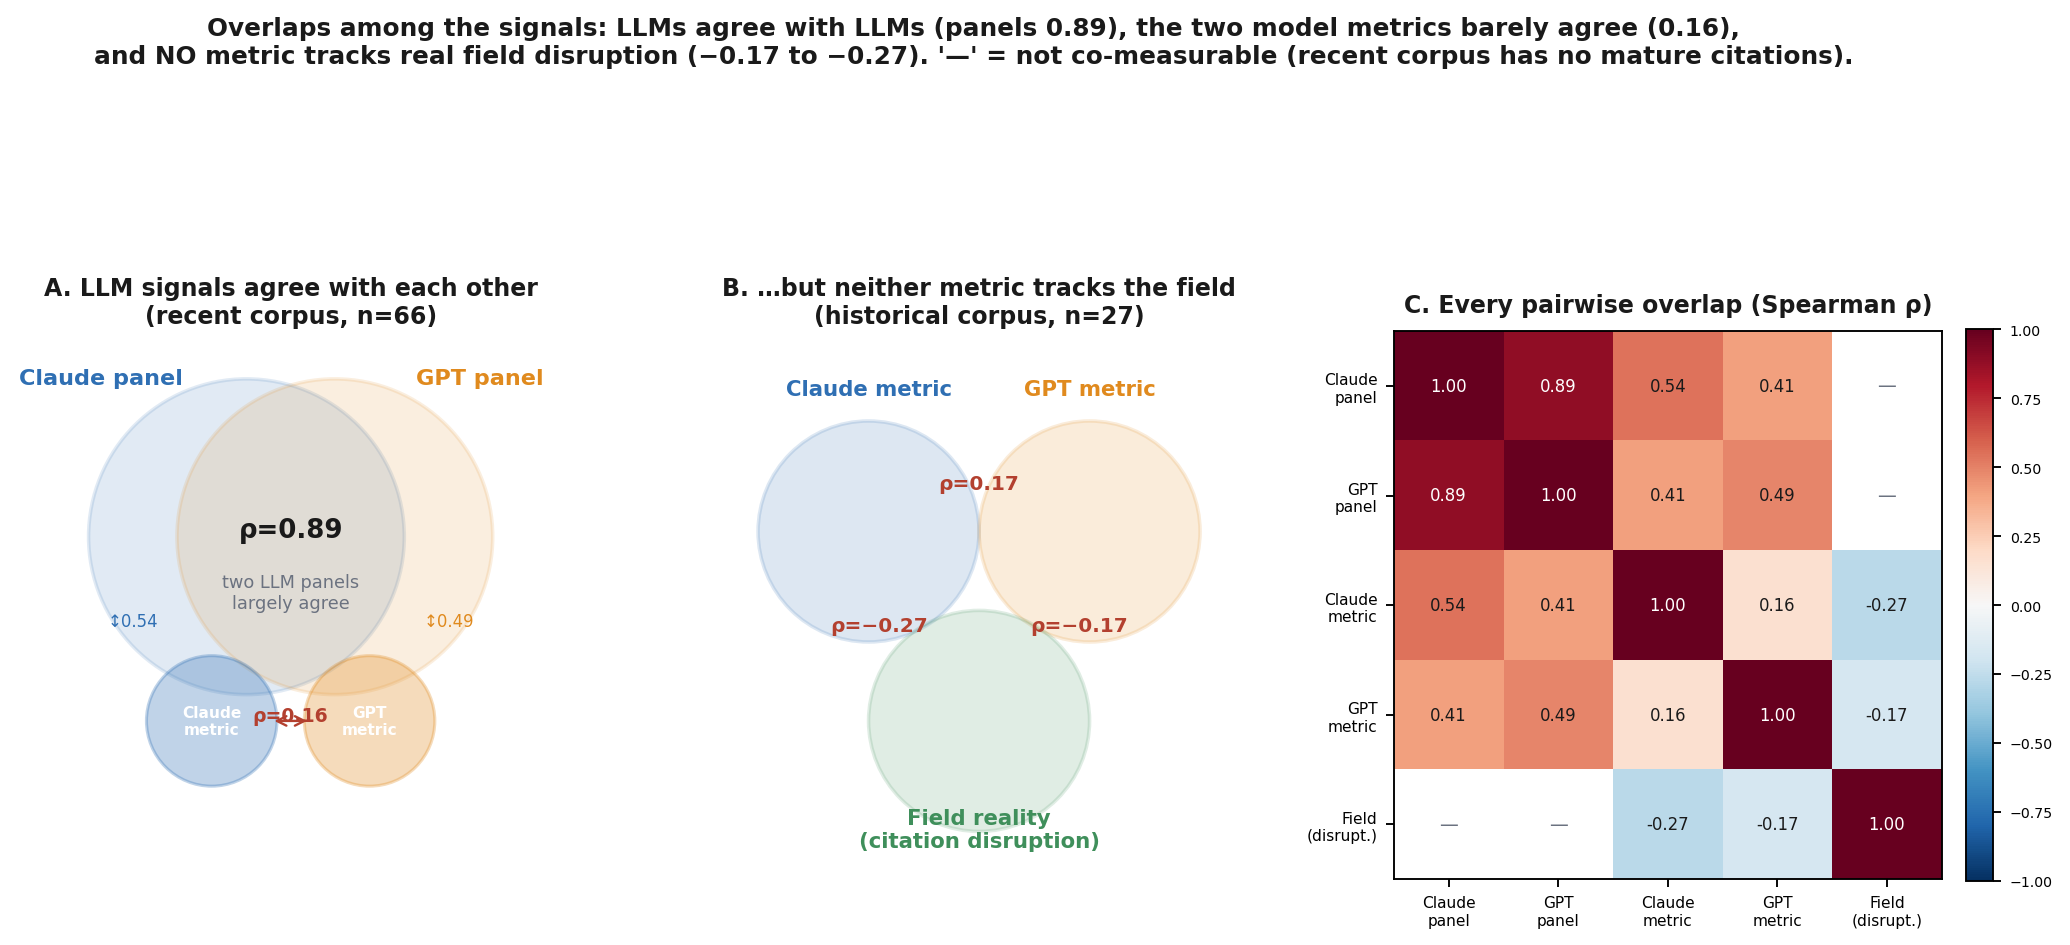
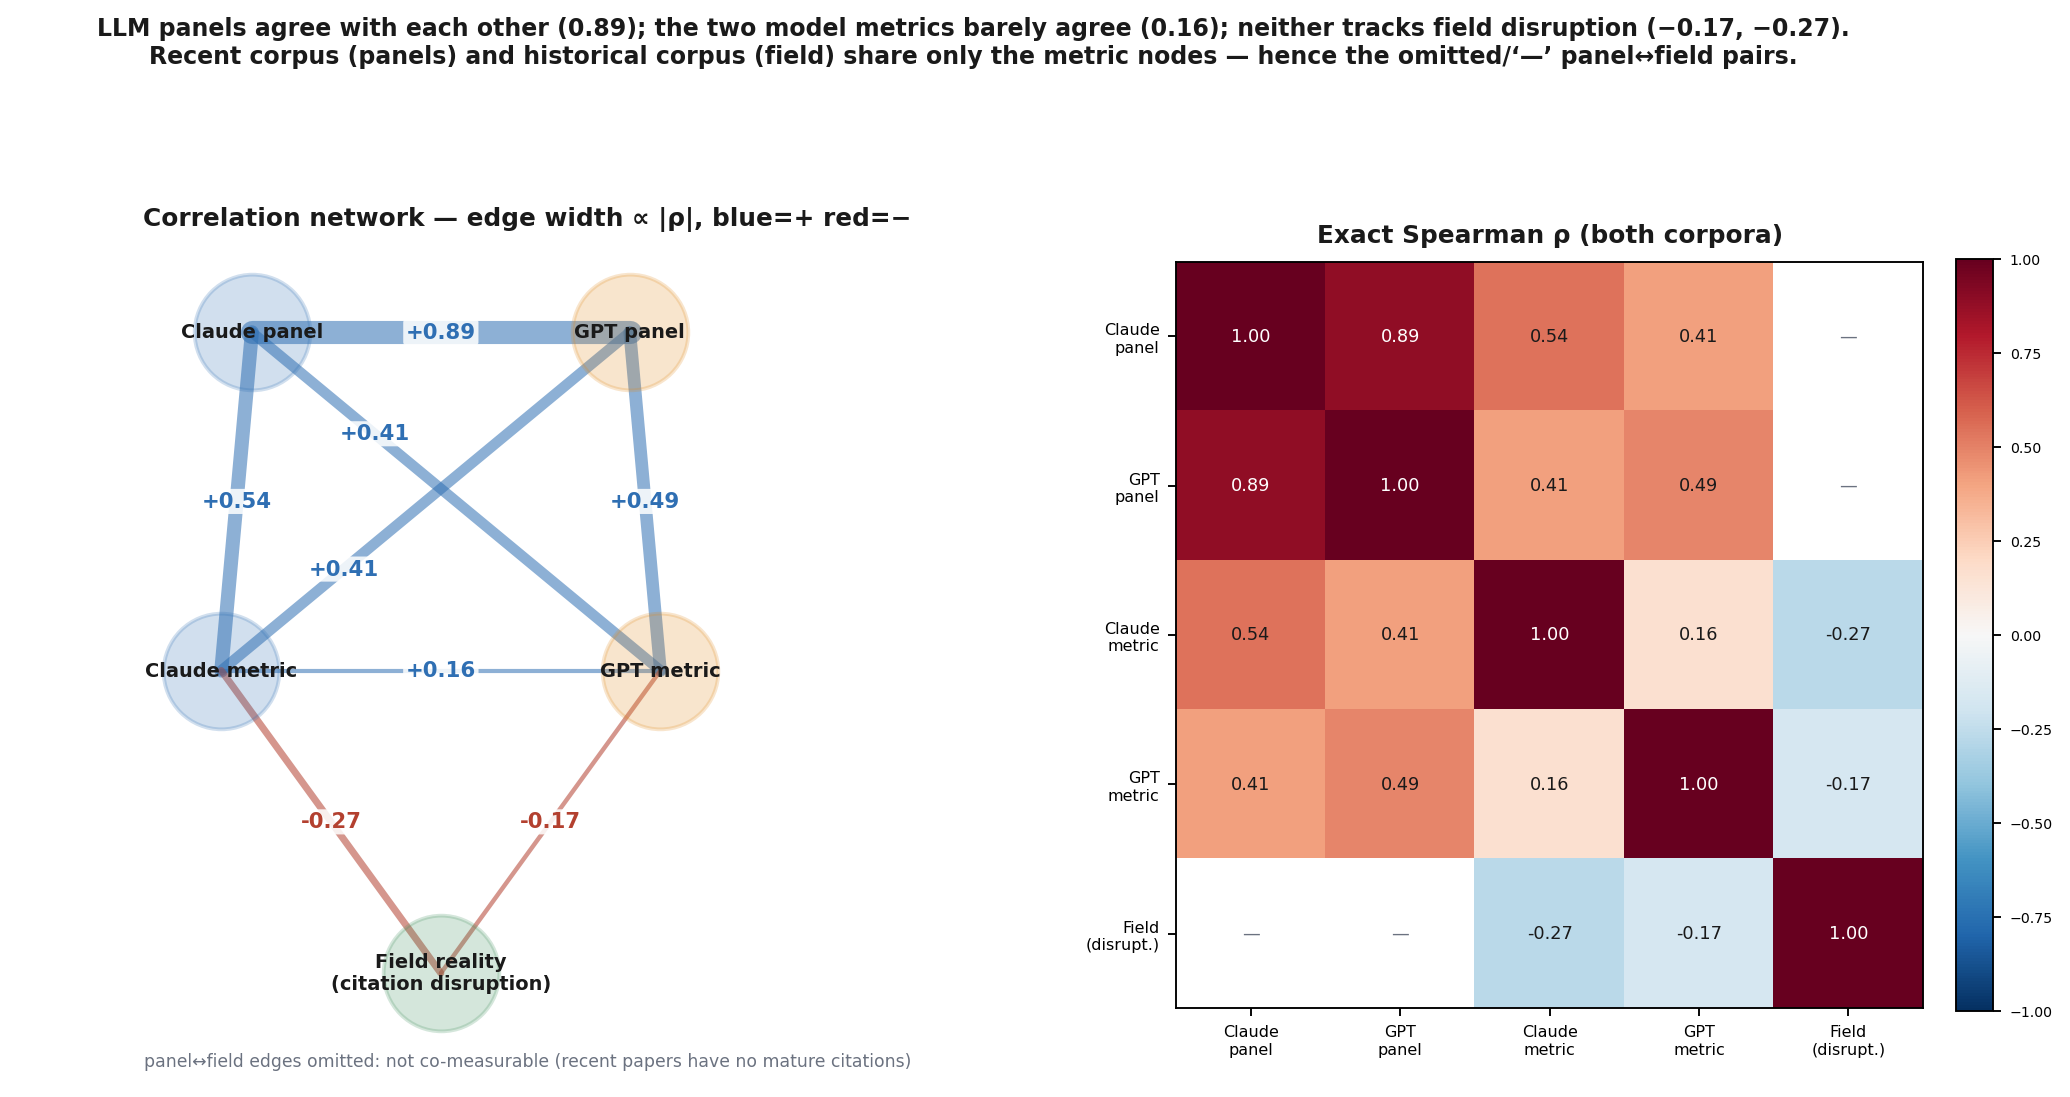
Historical paper: fix overlap figure — faithful correlation network (edge width ∝ |ρ|) + exact matrix
Replaces the hand-drawn Venn (which rendered equal correlations, e.g. metric-metric 0.16/0.17,
with inconsistent visual overlap) with a correlation network where edge width is strictly
proportional to |ρ|, so equal correlations look equal. Caption clarifies the two-corpus design:
LLM panels (recent corpus, no mature citations) and field disruption (historical corpus) are
never cross-substituted — panel↔field is not co-measurable, hence the '—' cells.

diff --git a/research/metrics/v6-historical/make_overlap_fig.py b/research/metrics/v6-historical/make_overlap_fig.py
@@ -1,68 +1,62 @@
 #!/usr/bin/env python3
+"""Faithful overlap figure: a correlation NETWORK (edge width strictly ∝ |ρ|, colour = sign)
++ the exact Spearman matrix. No hand-drawn Venn geometry — equal ρ now looks equal."""
 import numpy as np, matplotlib
 matplotlib.use("Agg"); import matplotlib.pyplot as plt
-from matplotlib.patches import Circle
-BLUE="#2f6fb3";ORANGE="#e08a1e";GREEN="#3f8f5b";RED="#b3402f";INK="#1a1a1a";MUT="#6b7280"
-fig=plt.figure(figsize=(15,6.6));fig.patch.set_facecolor("white")
-gs=fig.add_gridspec(1,3,width_ratios=[1.05,1.05,1.15],wspace=0.25)
+BLUE="#2f6fb3";ORANGE="#e08a1e";GREEN="#3f8f5b";POS="#2f6fb3";NEG="#b3402f";INK="#1a1a1a";MUT="#6b7280"
+fig=plt.figure(figsize=(15,6.8));fig.patch.set_facecolor("white")
+gs=fig.add_gridspec(1,2,width_ratios=[1.25,1],wspace=0.15)
 
-# ---------- Panel A: LLM judgement agrees with itself (recent corpus) ----------
-ax=fig.add_subplot(gs[0,0]);ax.set_xlim(-2.6,2.6);ax.set_ylim(-2.5,2.6);ax.axis("off");ax.set_aspect("equal")
-# panels: big overlap 0.89
-ax.add_patch(Circle((-0.42,0.7),1.5,facecolor=BLUE,alpha=0.14,edgecolor=BLUE,lw=1.5))
-ax.add_patch(Circle(( 0.42,0.7),1.5,facecolor=ORANGE,alpha=0.14,edgecolor=ORANGE,lw=1.5))
-ax.text(-1.8,2.15,"Claude panel",color=BLUE,fontsize=9.5,weight="bold",ha="center")
-ax.text( 1.8,2.15,"GPT panel",color=ORANGE,fontsize=9.5,weight="bold",ha="center")
-ax.text(0,0.7,"ρ=0.89",color=INK,fontsize=11,weight="bold",ha="center")
-ax.text(0,0.35,"two LLM panels\nlargely agree",color=MUT,fontsize=7.5,ha="center",va="top")
-# metric circles smaller, overlapping panels ~0.5 but each other ~0.16
-ax.add_patch(Circle((-0.75,-1.05),0.62,facecolor=BLUE,alpha=0.30,edgecolor=BLUE,lw=1.3))
-ax.add_patch(Circle(( 0.75,-1.05),0.62,facecolor=ORANGE,alpha=0.30,edgecolor=ORANGE,lw=1.3))
-ax.text(-0.75,-1.05,"Claude\nmetric",color="white",fontsize=6.5,weight="bold",ha="center",va="center")
-ax.text( 0.75,-1.05,"GPT\nmetric",color="white",fontsize=6.5,weight="bold",ha="center",va="center")
-ax.annotate("ρ=0.16",xy=(0,-1.05),fontsize=8,color=RED,ha="center",weight="bold")
-ax.annotate("",xy=(-0.2,-1.05),xytext=(0.2,-1.05),arrowprops=dict(arrowstyle="<->",color=RED,lw=1))
-ax.text(-1.5,-0.15,"↕0.54",color=BLUE,fontsize=7,ha="center")
-ax.text( 1.5,-0.15,"↕0.49",color=ORANGE,fontsize=7,ha="center")
-ax.set_title("A. LLM signals agree with each other\n(recent corpus, n=66)",fontsize=10,color=INK,weight="bold")
+# ---- correlation network ----
+ax=fig.add_subplot(gs[0,0]);ax.set_xlim(0,10);ax.set_ylim(0,10);ax.axis("off")
+nodes={
+ "Claude panel":(2.3,8.4,BLUE),
+ "GPT panel":(6.0,8.4,ORANGE),
+ "Claude metric":(2.0,4.6,BLUE),
+ "GPT metric":(6.3,4.6,ORANGE),
+ "Field reality\n(citation disruption)":(4.15,1.2,GREEN),
+}
+edges=[  # (a,b,rho,label_t)
+ ("Claude panel","GPT panel",0.89,0.5),
+ ("Claude panel","Claude metric",0.54,0.5),
+ ("GPT panel","GPT metric",0.49,0.5),
+ ("Claude panel","GPT metric",0.41,0.30),
+ ("GPT panel","Claude metric",0.41,0.70),
+ ("Claude metric","GPT metric",0.16,0.5),
+ ("Claude metric","Field reality\n(citation disruption)",-0.27,0.5),
+ ("GPT metric","Field reality\n(citation disruption)",-0.17,0.5),
+]
+def mid(a,b,t=0.5): return (nodes[a][0]+(nodes[b][0]-nodes[a][0])*t, nodes[a][1]+(nodes[b][1]-nodes[a][1])*t)
+for a,b,r,lt in edges:
+    x1,y1,_=nodes[a]; x2,y2,_=nodes[b]
+    col=POS if r>=0 else NEG
+    ax.plot([x1,x2],[y1,y2],color=col,lw=max(0.6,abs(r)*11),alpha=0.55,zorder=1,solid_capstyle="round")
+    mx,my=mid(a,b, lt)
+    ax.text(mx,my,f"{r:+.2f}",fontsize=9,color=col,weight="bold",ha="center",va="center",
+            bbox=dict(boxstyle="round,pad=0.12",fc="white",ec="none",alpha=0.85),zorder=3)
+for name,(x,y,c) in nodes.items():
+    ax.scatter([x],[y],s=2400,c=c,alpha=0.22,edgecolors=c,linewidths=1.6,zorder=2)
+    ax.text(x,y,name,fontsize=8.2,color=INK,weight="bold",ha="center",va="center",zorder=4)
+ax.text(5,9.6,"Correlation network — edge width ∝ |ρ|, blue=+ red=−",fontsize=10.5,color=INK,weight="bold",ha="center")
+ax.text(5,0.15,"panel↔field edges omitted: not co-measurable (recent papers have no mature citations)",fontsize=7.3,color=MUT,ha="center")
 
-# ---------- Panel B: but metrics don't track the field (historical corpus) ----------
-ax=fig.add_subplot(gs[0,1]);ax.set_xlim(-2.6,2.6);ax.set_ylim(-2.5,2.6);ax.axis("off");ax.set_aspect("equal")
-# three nearly-disjoint circles (rho ~0 / negative)
-ax.add_patch(Circle((-1.05,0.75),1.05,facecolor=BLUE,alpha=0.16,edgecolor=BLUE,lw=1.5))
-ax.add_patch(Circle(( 1.05,0.75),1.05,facecolor=ORANGE,alpha=0.16,edgecolor=ORANGE,lw=1.5))
-ax.add_patch(Circle((0.0,-1.05),1.05,facecolor=GREEN,alpha=0.16,edgecolor=GREEN,lw=1.5))
-ax.text(-1.05,2.05,"Claude metric",color=BLUE,fontsize=9,weight="bold",ha="center")
-ax.text( 1.05,2.05,"GPT metric",color=ORANGE,fontsize=9,weight="bold",ha="center")
-ax.text(0.0,-2.25,"Field reality\n(citation disruption)",color=GREEN,fontsize=9,weight="bold",ha="center")
-ax.text(0,1.15,"ρ=0.17",color=RED,fontsize=8.5,weight="bold",ha="center")            # metric-metric
-ax.text(-0.95,-0.2,"ρ=−0.27",color=RED,fontsize=8.5,weight="bold",ha="center")       # claude-disr
-ax.text( 0.95,-0.2,"ρ=−0.17",color=RED,fontsize=8.5,weight="bold",ha="center")       # gpt-disr
-ax.set_title("B. …but neither metric tracks the field\n(historical corpus, n=27)",fontsize=10,color=INK,weight="bold")
-
-# ---------- Panel C: exact correlation matrix ----------
-ax=fig.add_subplot(gs[0,2])
+# ---- exact matrix ----
+ax=fig.add_subplot(gs[0,1])
 labels=["Claude\npanel","GPT\npanel","Claude\nmetric","GPT\nmetric","Field\n(disrupt.)"]
-M=np.array([
- [1.00, 0.89, 0.54, 0.41, np.nan],
- [0.89, 1.00, 0.41, 0.49, np.nan],
- [0.54, 0.41, 1.00, 0.16,-0.27],
- [0.41, 0.49, 0.16, 1.00,-0.17],
- [np.nan,np.nan,-0.27,-0.17,1.00]])
+M=np.array([[1,0.89,0.54,0.41,np.nan],[0.89,1,0.41,0.49,np.nan],
+            [0.54,0.41,1,0.16,-0.27],[0.41,0.49,0.16,1,-0.17],[np.nan,np.nan,-0.27,-0.17,1]])
 im=ax.imshow(M,cmap="RdBu_r",vmin=-1,vmax=1)
-ax.set_xticks(range(5));ax.set_yticks(range(5))
-ax.set_xticklabels(labels,fontsize=6.5);ax.set_yticklabels(labels,fontsize=6.5)
+ax.set_xticks(range(5));ax.set_yticks(range(5));ax.set_xticklabels(labels,fontsize=6.8);ax.set_yticklabels(labels,fontsize=6.8)
 for i in range(5):
     for j in range(5):
-        if not np.isnan(M[i,j]):
-            ax.text(j,i,f"{M[i,j]:.2f}",ha="center",va="center",fontsize=7,
-                    color="white" if abs(M[i,j])>0.6 else INK)
-        else:
-            ax.text(j,i,"—",ha="center",va="center",fontsize=8,color=MUT)
-ax.set_title("C. Every pairwise overlap (Spearman ρ)",fontsize=10,color=INK,weight="bold",pad=8)
+        v=M[i,j]
+        ax.text(j,i,("—" if np.isnan(v) else f"{v:.2f}"),ha="center",va="center",fontsize=7.5,
+                color=(MUT if np.isnan(v) else ("white" if abs(v)>0.6 else INK)))
+ax.set_title("Exact Spearman ρ (both corpora)",fontsize=10.5,color=INK,weight="bold",pad=8)
 fig.colorbar(im,ax=ax,fraction=0.046,pad=0.04).ax.tick_params(labelsize=6)
 
-fig.suptitle("Overlaps among the signals: LLMs agree with LLMs (panels 0.89), the two model metrics barely agree (0.16),\nand NO metric tracks real field disruption (−0.17 to −0.27). '—' = not co-measurable (recent corpus has no mature citations).",
-             fontsize=10.5,color=INK,y=1.02,weight="bold")
+fig.suptitle("LLM panels agree with each other (0.89); the two model metrics barely agree (0.16); neither tracks field disruption (−0.17, −0.27).\n"
+             "Recent corpus (panels) and historical corpus (field) share only the metric nodes — hence the omitted/‘—’ panel↔field pairs.",
+             fontsize=10,color=INK,y=1.03,weight="bold")
 fig.savefig("overlap_figure.png",dpi=170,bbox_inches="tight",facecolor="white")
 print("wrote overlap_figure.png")

diff --git a/research/metrics/v6-historical/HISTORICAL_PAPER.md b/research/metrics/v6-historical/HISTORICAL_PAPER.md
@@ -25,7 +25,7 @@ Every pairwise overlap, across both corpora:
 
 ![Overlap map](figures/overlap_figure.png)
 
-*(A) On the recent corpus (v5), the two LLM judge panels agree at ρ=0.89, and each metric tracks its own-model panel moderately (0.49–0.54) but the two metrics agree only 0.16. (B) On the historical corpus, the two model metrics and the citation-based field-disruption signal are mutually near-disjoint. (C) The exact Spearman matrix; "—" marks pairs not co-measurable, because the recent corpus has no mature citations — the reason a historical corpus was needed.)*
+*Left — correlation network (edge width strictly ∝ |ρ|, blue = positive, red = negative). The two LLM judge panels sit on a thick edge (ρ=0.89); each metric links to its own-model panel moderately (0.49–0.54) and cross-model a bit less (0.41); the two model metrics link only thinly to each other (0.16); and both link to field disruption on thin red (negative) edges (−0.17, −0.27). Right — the exact Spearman matrix. "—" marks pairs not co-measurable: the LLM panels were run on the recent corpus (no mature citations) and field disruption on the historical corpus, so panel↔field was never measured on shared papers — which is why the two validations use different paper sets and are never cross-substituted.*
 
 **Breakthrough (metric vs mature disruption, n=27, full text, dual-model):**
 